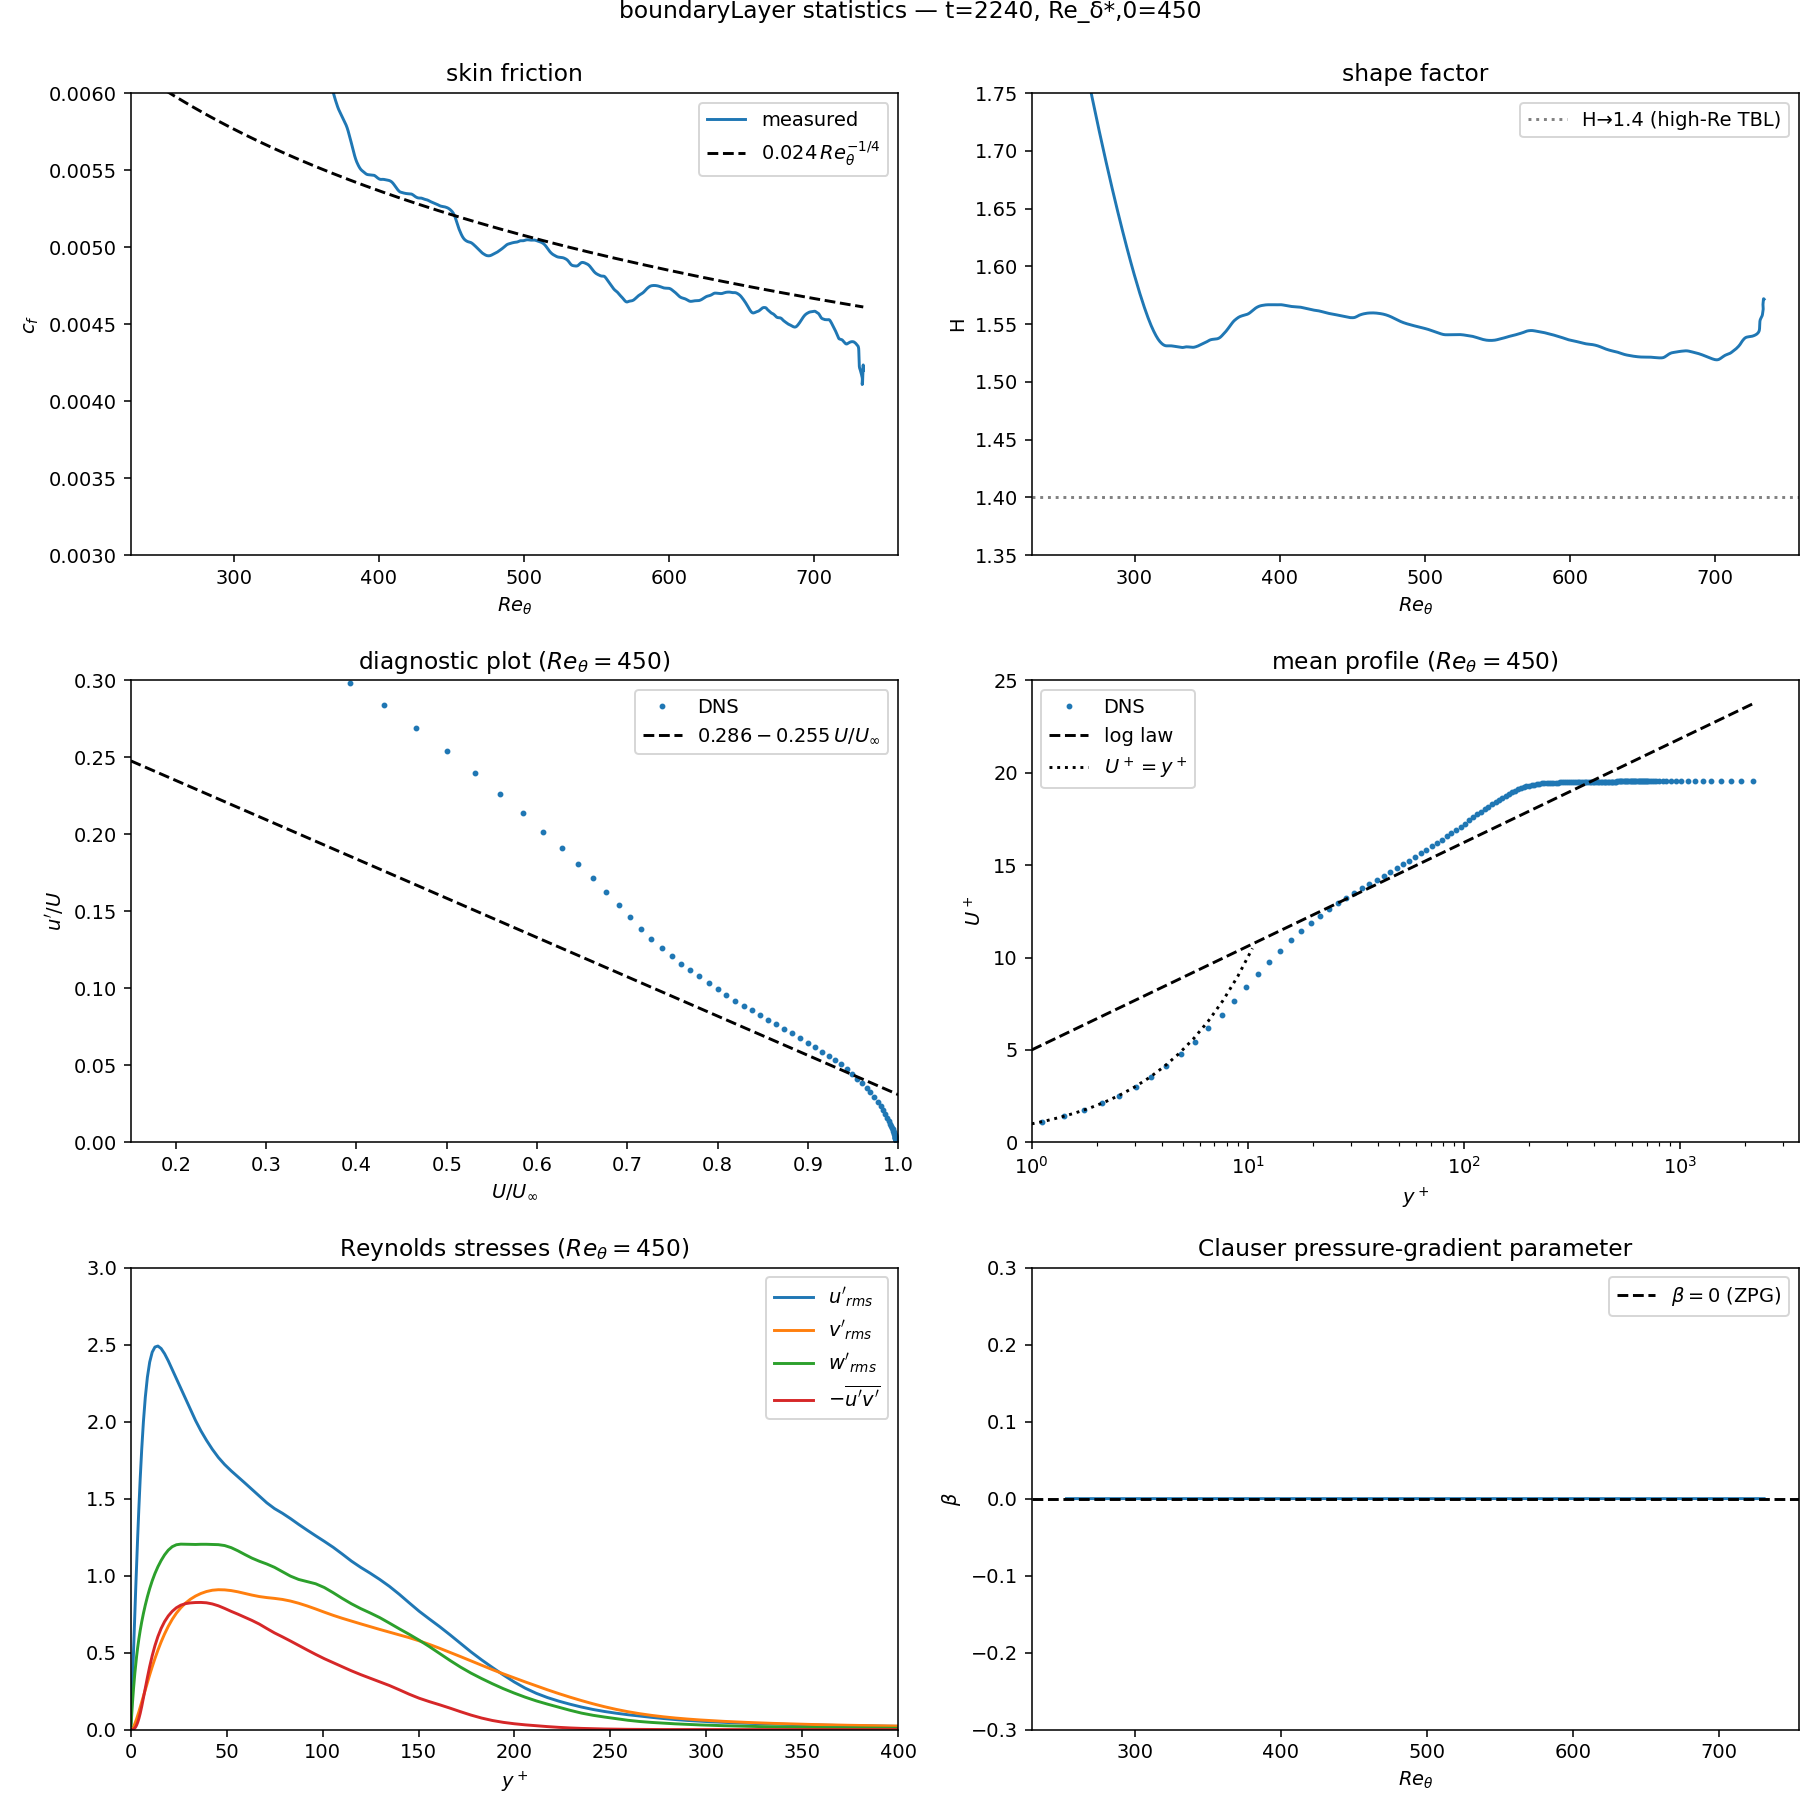
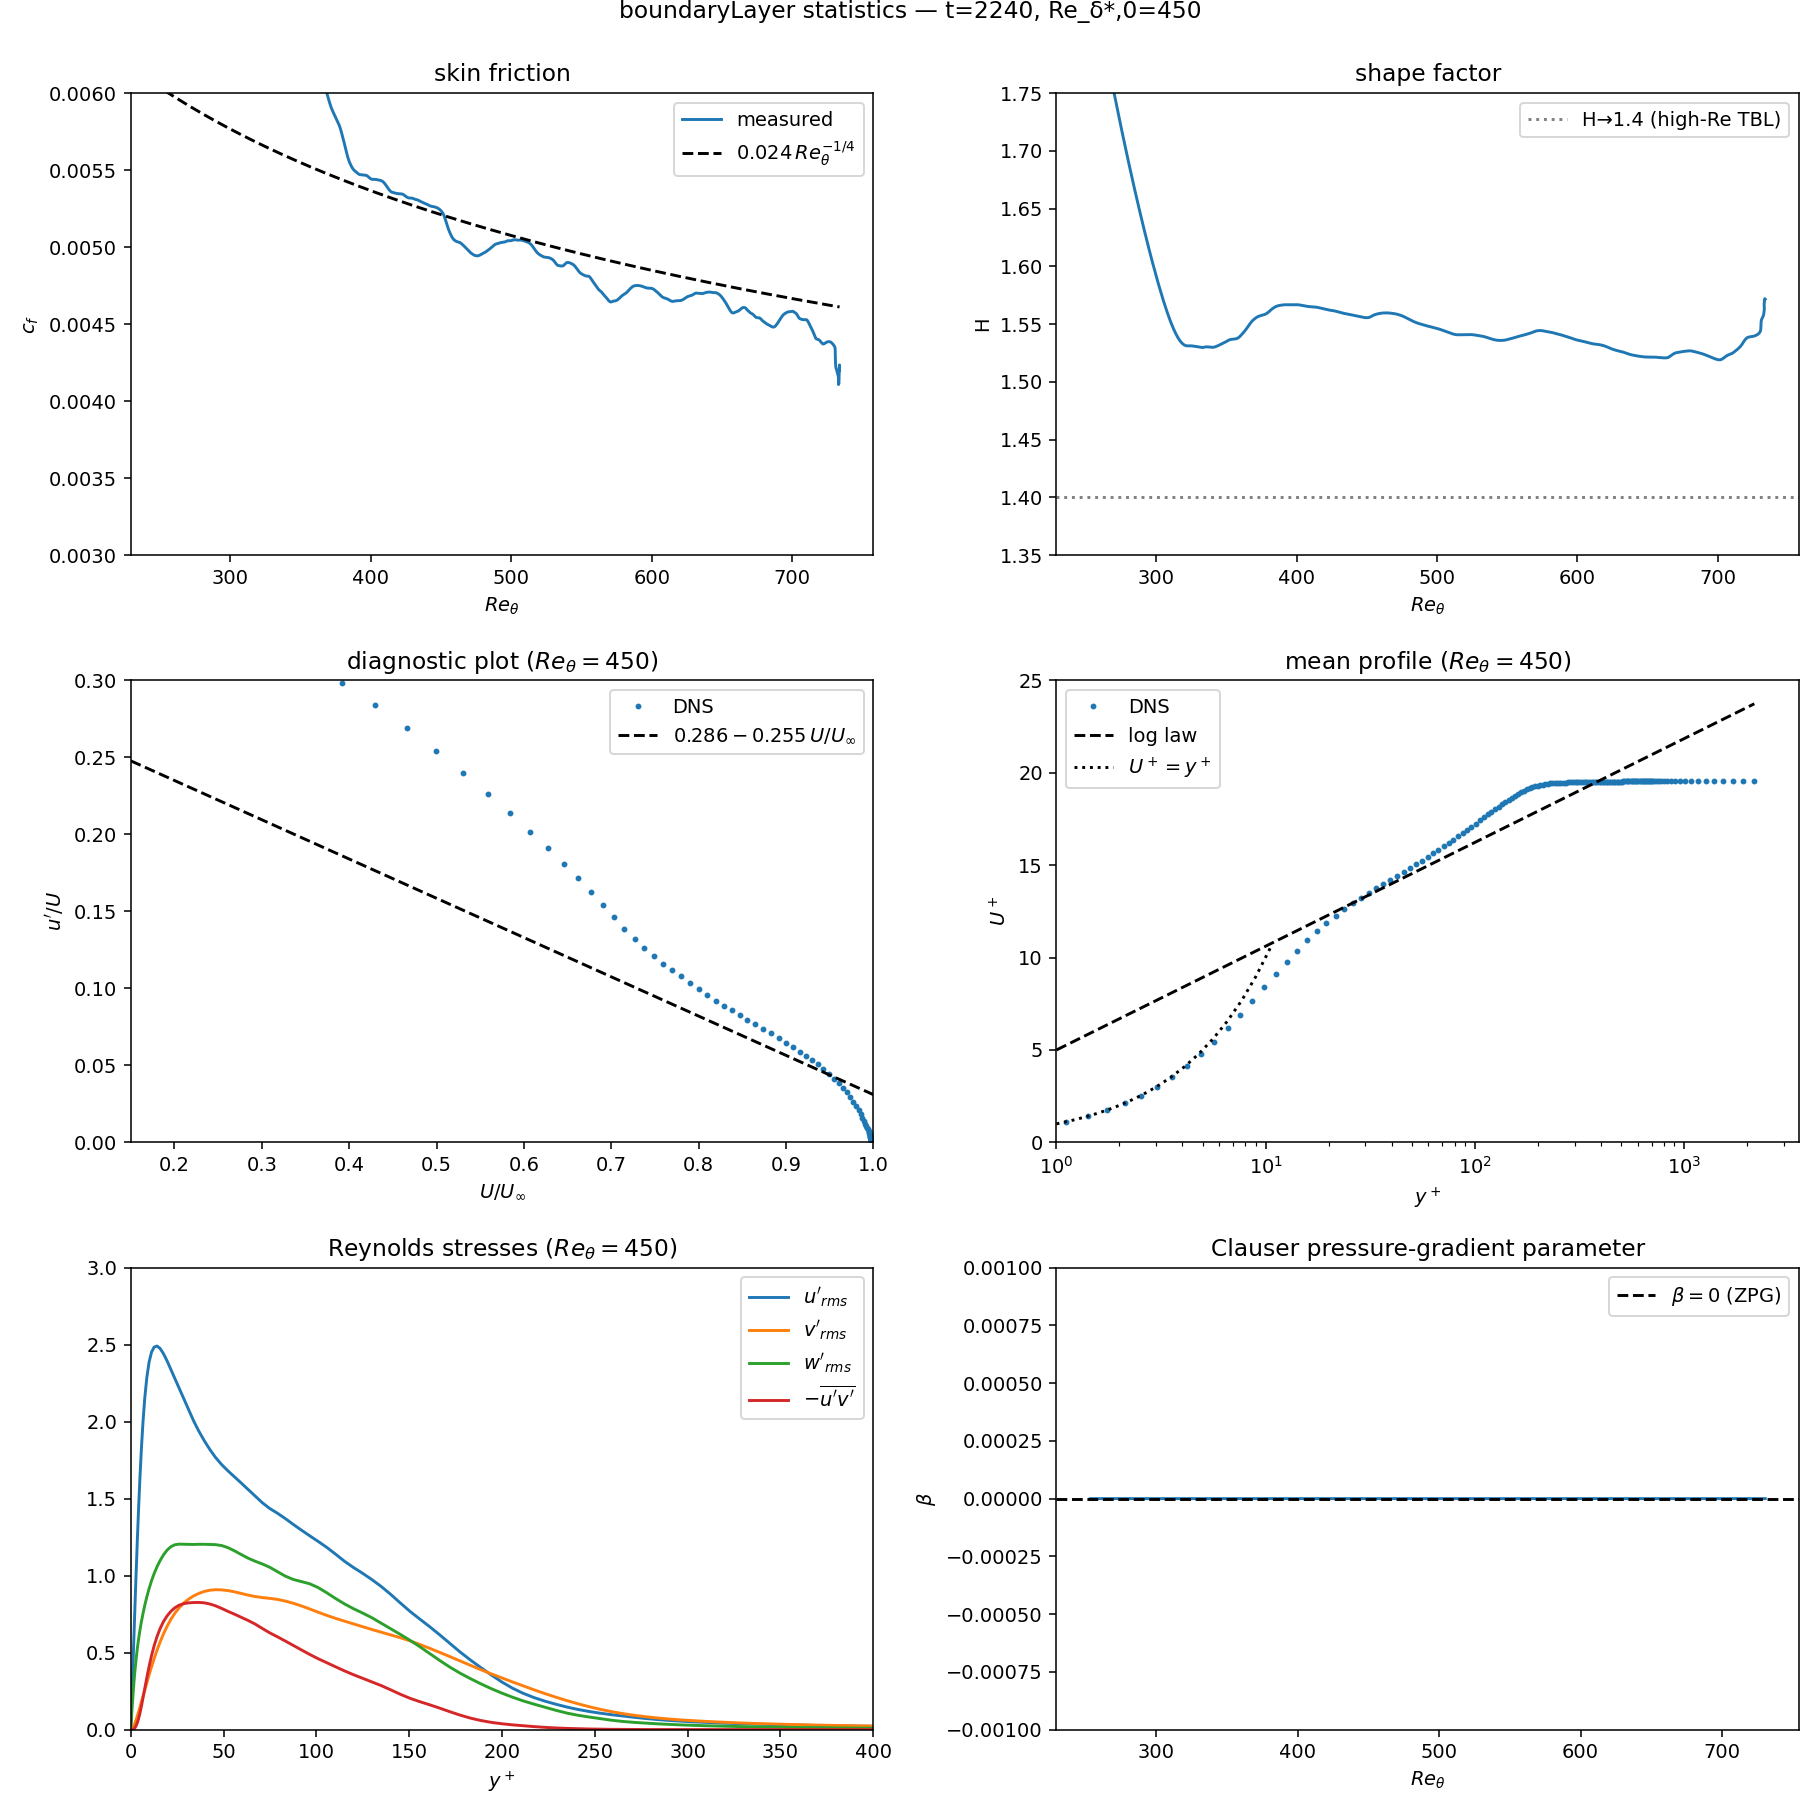
boundaryLayer: tighten beta axis to (-0.001, 0.001)

diff --git a/tutorials/turbulentBoundaryLayer/turbulent/bl_stats.py b/tutorials/turbulentBoundaryLayer/turbulent/bl_stats.py
@@ -142,7 +142,7 @@ def main():
         ax[2, 1].plot(reth[mb], beta[mb])
         ax[2, 1].axhline(0.0, ls="--", c="k", label=r"$\beta=0$ (ZPG)")
         ax[2, 1].set_xlabel(r"$Re_\theta$"); ax[2, 1].set_ylabel(r"$\beta$")
-        ax[2, 1].set_ylim(-0.3, 0.3); ax[2, 1].legend()
+        ax[2, 1].set_ylim(-0.001, 0.001); ax[2, 1].legend()
         ax[2, 1].set_title("Clauser pressure-gradient parameter")
 
         fig.suptitle(f"boundaryLayer statistics — t={t:.0f}, Re_δ*,0={re:.0f}", y=1.0)
